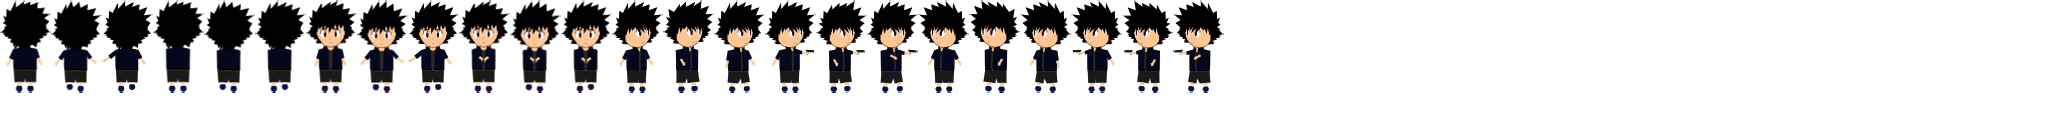
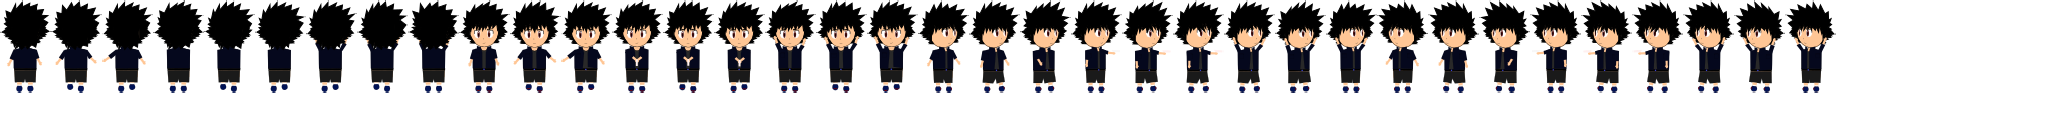
no message

diff --git a/core/src/com/mypjgdx/esg/game/objects/Player.java b/core/src/com/mypjgdx/esg/game/objects/Player.java
@@ -56,14 +56,14 @@ public class Player extends AnimatedObject {
     }
 
     public void init() {
-        addNormalAnimation(AnimationName.ATK_LEFT, FRAME_DURATION, 21, 3);
-        addNormalAnimation(AnimationName.ATK_RIGHT, FRAME_DURATION, 15, 3);
+        addNormalAnimation(AnimationName.ATK_LEFT, FRAME_DURATION, 30, 3);
+        addNormalAnimation(AnimationName.ATK_RIGHT, FRAME_DURATION, 21, 3);
         addNormalAnimation(AnimationName.ATK_UP, FRAME_DURATION, 3, 3);
-        addNormalAnimation(AnimationName.ATK_DOWN, FRAME_DURATION, 9, 3);
+        addNormalAnimation(AnimationName.ATK_DOWN, FRAME_DURATION, 12, 3);
         addLoopAnimation(AnimationName.WALK_UP, FRAME_DURATION, 0, 3);
-        addLoopAnimation(AnimationName.WALK_DOWN, FRAME_DURATION, 6, 3);
-        addLoopAnimation(AnimationName.WALK_LEFT, FRAME_DURATION, 18, 3);
-        addLoopAnimation(AnimationName.WALK_RIGHT, FRAME_DURATION, 12, 3);
+        addLoopAnimation(AnimationName.WALK_DOWN, FRAME_DURATION, 9, 3);
+        addLoopAnimation(AnimationName.WALK_LEFT, FRAME_DURATION, 27, 3);
+        addLoopAnimation(AnimationName.WALK_RIGHT, FRAME_DURATION, 18, 3);
 
         state = PlayerState.WALK; //สถานะของตัวละคร
         health = INTITAL_HEALTH;
